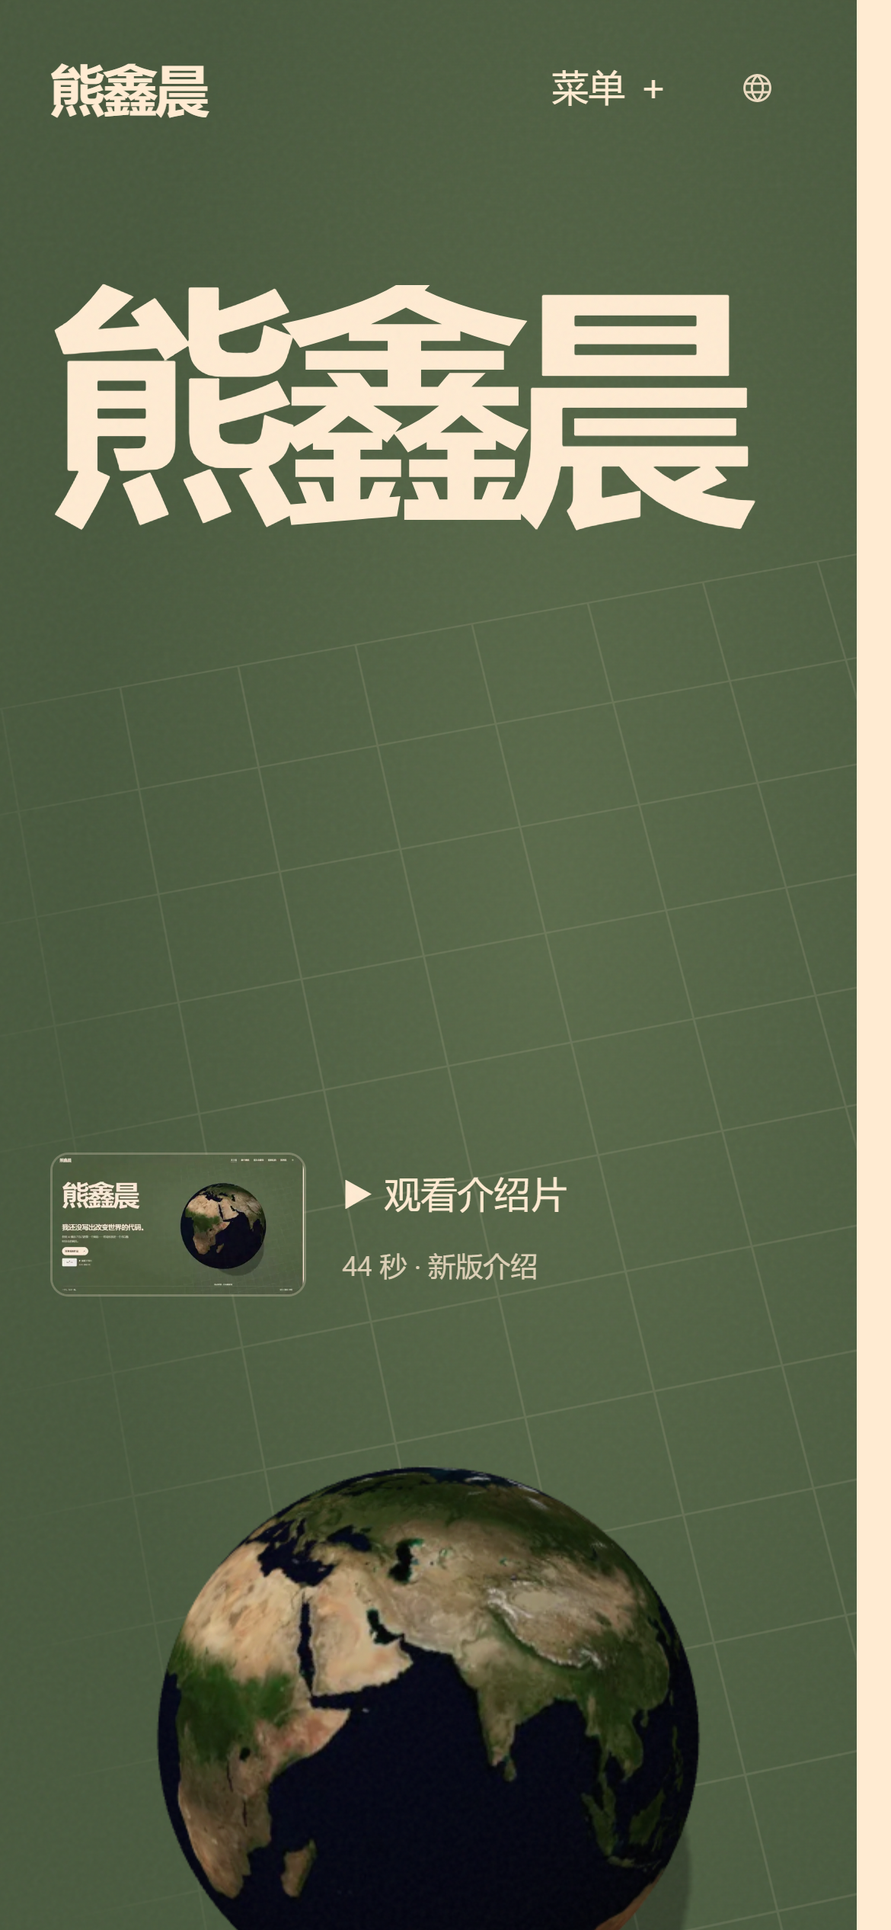
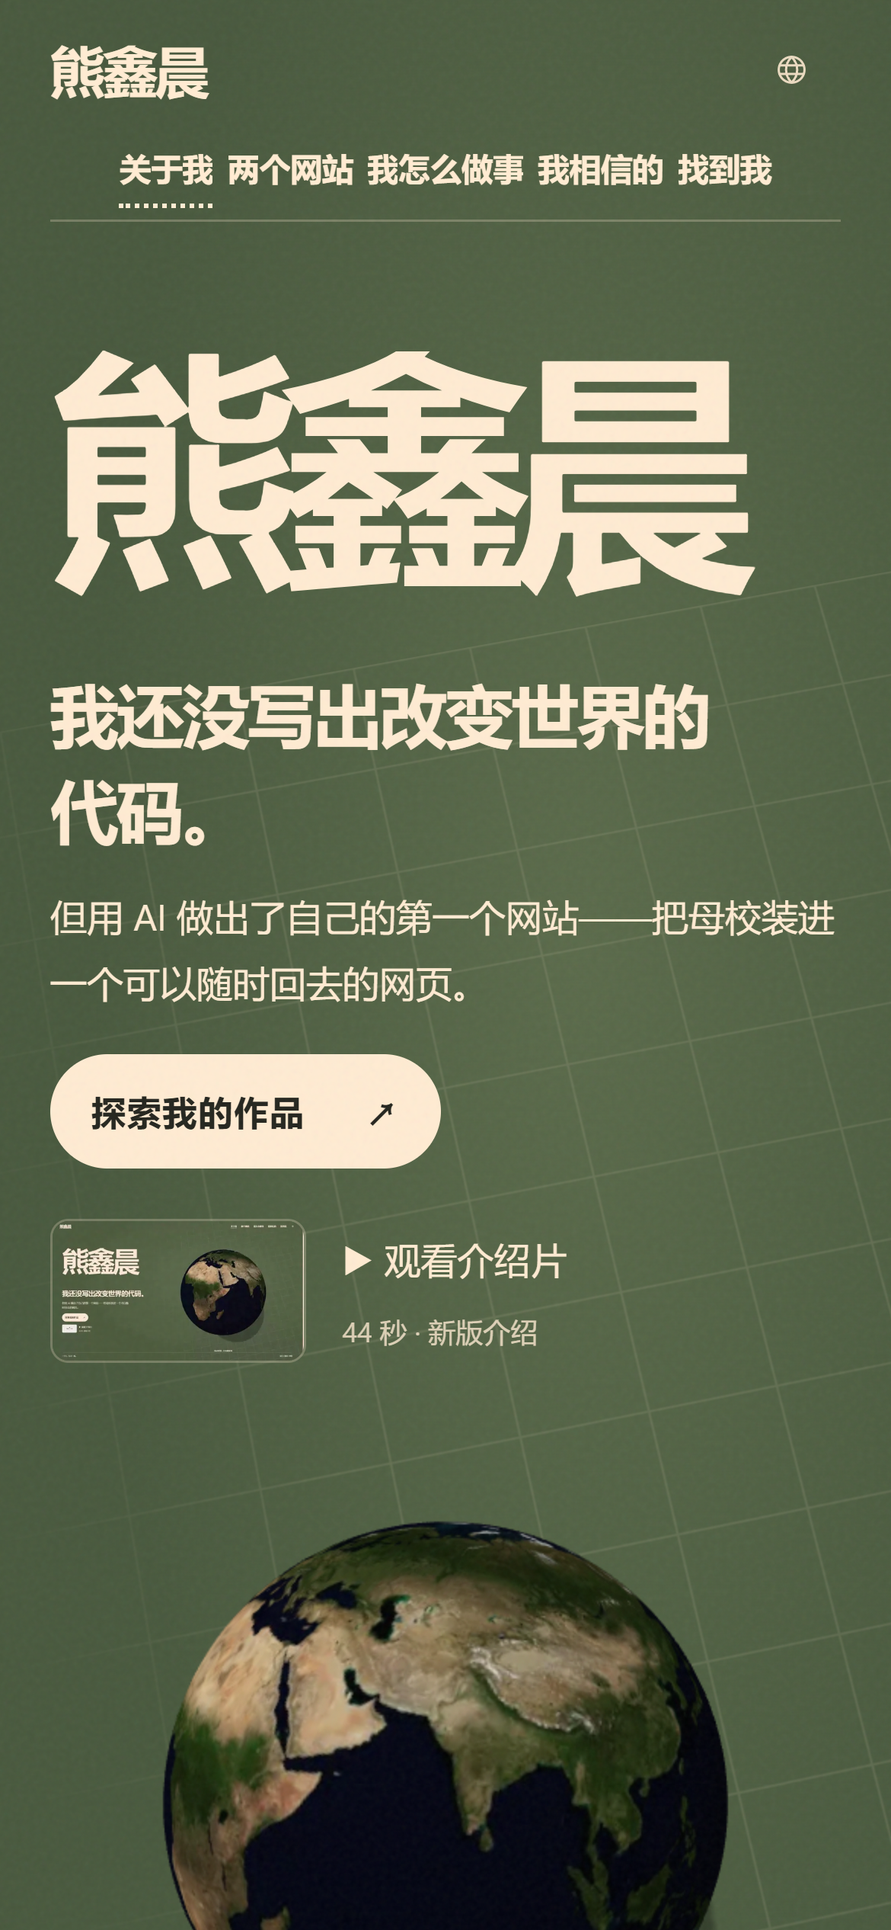
移动端默认展开章节导航并适配换行高度

diff --git a/en/index.html b/en/index.html
@@ -21,10 +21,10 @@
 <meta property="og:locale" content="en_US">
 <meta property="og:locale:alternate" content="zh_CN">
 <meta name="twitter:card" content="summary_large_image">
-<link rel="icon" href="../assets/images/favicon.ico?v=167fca" type="image/x-icon">
-<link rel="icon" href="../assets/images/favicon-32.png?v=167fca" type="image/png" sizes="32x32">
-<link rel="apple-touch-icon" href="../assets/images/apple-touch-icon.png?v=167fca">
-<link rel="stylesheet" href="../assets/css/style.css?v=167fca">
+<link rel="icon" href="../assets/images/favicon.ico?v=bf924a" type="image/x-icon">
+<link rel="icon" href="../assets/images/favicon-32.png?v=bf924a" type="image/png" sizes="32x32">
+<link rel="apple-touch-icon" href="../assets/images/apple-touch-icon.png?v=bf924a">
+<link rel="stylesheet" href="../assets/css/style.css?v=bf924a">
 <noscript>
 <style>
 /* Without JavaScript: show everything the scripts would reveal, and lay the two
@@ -100,14 +100,14 @@
   <section class="hero" id="top">
 <div class="hero-stage">
 <h1>Xiong Xinchen</h1>
-    <div class="hero-visual"><div class="orbit-fallback" aria-hidden="true"><img src="../assets/images/orbit-poster.webp?v=167fca" width="800" height="800" alt="" fetchpriority="high" decoding="async"></div>
+    <div class="hero-visual"><div class="orbit-fallback" aria-hidden="true"><img src="../assets/images/orbit-poster.webp?v=bf924a" width="800" height="800" alt="" fetchpriority="high" decoding="async"></div>
     <canvas id="field" aria-hidden="true"></canvas></div>
 
 
     <div class="hero-copy"><p class="motto">I haven't written code that changed the world yet.</p>
     <p class="hero-sub">But with AI I made my first website — it puts my old school into a page you can go back to at any time.</p>
     <a class="hero-cta" data-magnetic href="#works">Explore my work <span aria-hidden="true">↗</span></a>
-    <a class="film-entry" href="../assets/video/intro-promo.mp4?v=167fca"><img src="../assets/video/poster.webp?v=167fca" width="480" height="270" alt="" decoding="async"><span>▶ Watch the film<small>44 sec · New edition</small></span></a></div>
+    <a class="film-entry" href="../assets/video/intro-promo.mp4?v=bf924a"><img src="../assets/video/poster.webp?v=bf924a" width="480" height="270" alt="" decoding="async"><span>▶ Watch the film<small>44 sec · New edition</small></span></a></div>
 <div class="hero-caption"><span>One person. With AI.</span><span>Design / Build / Explore</span></div>
 
 <a class="scroll-next" href="#about">Scroll to explore <span aria-hidden="true">↓</span></a>
@@ -117,7 +117,7 @@
 
   <!-- ============ I · ABOUT ============ -->
   <section id="about">
-    <div class="avatar"><img src="../assets/images/avatar.jpg?v=167fca" alt="The owner’s chosen avatar: two lines of white Chinese text reading 「你能始终站在人民这边，你就是他最坚定的战士」 over the Russian «Служи народу», on a dark crimson field, with a black silhouetted figure in a cap at the bottom" width="300" height="300"></div>
+    <div class="avatar"><img src="../assets/images/avatar.jpg?v=bf924a" alt="The owner’s chosen avatar: two lines of white Chinese text reading 「你能始终站在人民这边，你就是他最坚定的战士」 over the Russian «Служи народу», on a dark crimson field, with a black silhouetted figure in a cap at the bottom" width="300" height="300"></div>
     <div class="sec-head reveal"><span class="sec-index">I · ABOUT</span><h2>About</h2></div>
     <hr class="sec-rule reveal">
     <p class="reveal">My name is Xiong Xinchen. The site you are reading is the introduction page I made for myself. Two other things of mine are live: a private memorial page for my school, and GEOHOT.</p>
@@ -147,7 +147,7 @@
     <article class="work-card reveal" id="project-memorial">
       <h3>A Memorial by Qingshan Lake · In memory of Nanchang No. 15 Middle School</h3>
       <p class="lede">My old school, made into an address you can visit.</p>
-      <img class="shot" src="../assets/images/shot-nc15.webp?v=167fca" alt="The memorial site’s opening screen: cream paper, the school badge, an EST. 1958 eyebrow line, and the serif headline 「青山湖畔，红砖楼与香樟记得。」" width="1200" height="750" loading="lazy">
+      <img class="shot" src="../assets/images/shot-nc15.webp?v=bf924a" alt="The memorial site’s opening screen: cream paper, the school badge, an EST. 1958 eyebrow line, and the serif headline 「青山湖畔，红砖楼与香樟记得。」" width="1200" height="750" loading="lazy">
       <ul class="facts" role="list">
         <li>Pure HTML / CSS / vanilla JS. Structure, style and behaviour are kept apart, and there is no build step.</li>
         <li>25 campus photographs, all taken by me, and a tour through time at 8 camera positions.</li>
@@ -160,7 +160,7 @@
     <article class="work-card reveal" id="project-geohot">
       <h3>GEOHOT · Geography hot spots</h3>
       <p class="lede">Scheduled every morning at 8; when a day has nothing worth writing, it stays blank instead of padding out.</p>
-      <img class="shot" src="../assets/images/shot-geohot.webp?v=167fca" alt="GEOHOT’s front page: a list of scored geography items and the daily digest" width="1000" height="626" loading="lazy">
+      <img class="shot" src="../assets/images/shot-geohot.webp?v=bf924a" alt="GEOHOT’s front page: a list of scored geography items and the daily digest" width="1000" height="626" loading="lazy">
       <ul class="facts" role="list">
         <li>Built on the open-source framework AIHOT. The whole geography layer lives in one directory, <code>industry/</code>.</li>
         <li>Sources are collected, pre-filtered, then scored twice on their own; spatial salience is the ranking criterion, while the admission threshold is set per source tier.</li>
@@ -249,8 +249,8 @@
   <div class="film-bar"><strong id="film-title">Personal site film · Earlier version</strong><button type="button" class="film-close" autofocus>Close</button></div>
   <video controls playsinline preload="none" width="1920" height="1080" aria-label="Personal site film, in Chinese"></video>
   <p class="film-note">The current site, with Chinese on-screen text.</p>
-  <a href="../assets/video/intro-promo.mp4?v=167fca" download>Download film</a>
+  <a href="../assets/video/intro-promo.mp4?v=bf924a" download>Download film</a>
 </dialog>
-<script type="module" src="../assets/js/main.js?v=167fca"></script>
+<script type="module" src="../assets/js/main.js?v=bf924a"></script>
 </body>
 </html>

diff --git a/index.html b/index.html
@@ -21,10 +21,10 @@
 <meta property="og:locale" content="zh_CN">
 <meta property="og:locale:alternate" content="en_US">
 <meta name="twitter:card" content="summary_large_image">
-<link rel="icon" href="./assets/images/favicon.ico?v=167fca" type="image/x-icon">
-<link rel="icon" href="./assets/images/favicon-32.png?v=167fca" type="image/png" sizes="32x32">
-<link rel="apple-touch-icon" href="./assets/images/apple-touch-icon.png?v=167fca">
-<link rel="stylesheet" href="./assets/css/style.css?v=167fca">
+<link rel="icon" href="./assets/images/favicon.ico?v=bf924a" type="image/x-icon">
+<link rel="icon" href="./assets/images/favicon-32.png?v=bf924a" type="image/png" sizes="32x32">
+<link rel="apple-touch-icon" href="./assets/images/apple-touch-icon.png?v=bf924a">
+<link rel="stylesheet" href="./assets/css/style.css?v=bf924a">
 <noscript>
 <style>
 /* 关掉脚本时：脚本本来要揭示的内容全部直接显示，两个语言链接摊平仍可点击。
@@ -99,14 +99,14 @@
   <section class="hero" id="top">
 <div class="hero-stage">
 <h1>熊鑫晨</h1>
-    <div class="hero-visual"><div class="orbit-fallback" aria-hidden="true"><img src="./assets/images/orbit-poster.webp?v=167fca" width="800" height="800" alt="" fetchpriority="high" decoding="async"></div>
+    <div class="hero-visual"><div class="orbit-fallback" aria-hidden="true"><img src="./assets/images/orbit-poster.webp?v=bf924a" width="800" height="800" alt="" fetchpriority="high" decoding="async"></div>
     <canvas id="field" aria-hidden="true"></canvas></div>
 
 
     <div class="hero-copy"><p class="motto">我还没写出改变世界的代码。</p>
     <p class="hero-sub">但用 AI 做出了自己的第一个网站——把母校装进一个可以随时回去的网页。</p>
     <a class="hero-cta" data-magnetic href="#works">探索我的作品 <span aria-hidden="true">↗</span></a>
-    <a class="film-entry" href="./assets/video/intro-promo.mp4?v=167fca"><img src="./assets/video/poster.webp?v=167fca" width="480" height="270" alt="" decoding="async"><span>▶ 观看介绍片<small>44 秒 · 新版介绍</small></span></a></div>
+    <a class="film-entry" href="./assets/video/intro-promo.mp4?v=bf924a"><img src="./assets/video/poster.webp?v=bf924a" width="480" height="270" alt="" decoding="async"><span>▶ 观看介绍片<small>44 秒 · 新版介绍</small></span></a></div>
 <div class="hero-caption"><span>一个人，与 AI 一起。</span><span>设计 / 建造 / 探索</span></div>
 
 <a class="scroll-next" href="#about">向下，认识我 <span aria-hidden="true">↓</span></a>
@@ -116,7 +116,7 @@
 
   <!-- ============ 壹 · ABOUT ============ -->
   <section id="about">
-    <div class="avatar"><img src="./assets/images/avatar.jpg?v=167fca" alt="站长选定的头像图：深红底上两行白字「你能始终站在人民这边，你就是他最坚定的战士」，其下一行俄文「Служи народу」，底部是一个戴帽人物的黑色剪影" width="300" height="300"></div>
+    <div class="avatar"><img src="./assets/images/avatar.jpg?v=bf924a" alt="站长选定的头像图：深红底上两行白字「你能始终站在人民这边，你就是他最坚定的战士」，其下一行俄文「Служи народу」，底部是一个戴帽人物的黑色剪影" width="300" height="300"></div>
     <div class="sec-head reveal"><span class="sec-index">壹 · ABOUT</span><h2>关于我</h2></div>
     <hr class="sec-rule reveal">
     <p class="reveal">我叫熊鑫晨。你现在看到的这个页面，是我为自己做的介绍页。我放上线的还有两个站点——纪念母校的那本私人纪念册，和地理热点 GEOHOT。</p>
@@ -146,7 +146,7 @@
     <article class="work-card reveal" id="project-memorial">
       <h3>青山湖畔的纪念册 · 纪念南昌市第十五中学</h3>
       <p class="lede">把母校做成一个可以随时访问的地址。</p>
-      <img class="shot" src="./assets/images/shot-nc15.webp?v=167fca" alt="纪念册网站的首屏：米白纸面、校徽、眉标 NANCHANG NO. 15 MIDDLE SCHOOL · EST. 1958，以及衬线大标题「青山湖畔，红砖楼与香樟记得。」" width="1200" height="750" loading="lazy">
+      <img class="shot" src="./assets/images/shot-nc15.webp?v=bf924a" alt="纪念册网站的首屏：米白纸面、校徽、眉标 NANCHANG NO. 15 MIDDLE SCHOOL · EST. 1958，以及衬线大标题「青山湖畔，红砖楼与香樟记得。」" width="1200" height="750" loading="lazy">
       <ul class="facts" role="list">
         <li>纯 HTML / CSS / 原生 JS，结构、样式、行为三分离，没有构建步骤。</li>
         <li>25 张我自己拍的校园实景，八个机位的时光漫游。</li>
@@ -159,7 +159,7 @@
     <article class="work-card reveal" id="project-geohot">
       <h3>GEOHOT · 地理热点</h3>
       <p class="lede">每天上午八点排期出刊；那一天没有值得写的，它就照实空着，不凑数。</p>
-      <img class="shot" src="./assets/images/shot-geohot.webp?v=167fca" alt="GEOHOT 首页：带入选分的地理条目列表与每日日报" width="1000" height="626" loading="lazy">
+      <img class="shot" src="./assets/images/shot-geohot.webp?v=bf924a" alt="GEOHOT 首页：带入选分的地理条目列表与每日日报" width="1000" height="626" loading="lazy">
       <ul class="facts" role="list">
         <li>建在开源框架 AIHOT 之上，地理这一层全部收在 <code>industry/</code> 一个目录里。</li>
         <li>信源先采集、再预筛，然后两次独立打分；入选标准是空间显著性优先，门槛按信源分级。</li>
@@ -248,8 +248,8 @@
   <div class="film-bar"><strong id="film-title">个人站介绍片 · 此前版本</strong><button type="button" class="film-close" autofocus>关闭</button></div>
   <video controls playsinline preload="none" width="1920" height="1080" aria-label="个人站介绍片，中文"></video>
   <p class="film-note">影片展示当前新版网页，含中文画面文字。</p>
-  <a href="./assets/video/intro-promo.mp4?v=167fca" download>下载影片</a>
+  <a href="./assets/video/intro-promo.mp4?v=bf924a" download>下载影片</a>
 </dialog>
-<script type="module" src="./assets/js/main.js?v=167fca"></script>
+<script type="module" src="./assets/js/main.js?v=bf924a"></script>
 </body>
 </html>

diff --git a/assets/css/style.css b/assets/css/style.css
@@ -744,7 +744,6 @@ html[lang=en] .portfolio .hero h1{font-size:clamp(60px,15.2vw,230px);line-height
 .portfolio .progress{visibility:hidden}
 .portfolio .topbar[data-tone=ink]{color:var(--night)}
 .portfolio .topbar:has(#nav.is-open){color:var(--sand);background:var(--forest)}
-@media(min-width:1001px){
  .portfolio .menu-toggle{display:none}
  .portfolio #nav,.portfolio #nav.is-open{display:flex;position:static;inset:auto;flex-direction:row;align-items:center;justify-content:flex-end;order:1;margin-left:auto;padding:0;gap:clamp(22px,1.7vw,44px);background:transparent;overflow:visible}
  .portfolio #nav a{position:relative;color:inherit;border:0;padding:10px 0;font-size:clamp(14px,.82vw,21px);line-height:1.3;font-weight:700;letter-spacing:-.025em;text-transform:uppercase;white-space:nowrap}
@@ -752,7 +751,16 @@ html[lang=en] .portfolio .hero h1{font-size:clamp(60px,15.2vw,230px);line-height
  .portfolio #nav a:hover,.portfolio #nav a[aria-current]{background:transparent;color:inherit}
  .portfolio #nav a:hover::after,.portfolio #nav a[aria-current]::after{transform:scaleX(1)}
  .portfolio .controls{margin-left:8px}
+/* Keep the same visible navigation on phones, arranged below the brand. */
+@media(max-width:1000px){
+ .portfolio .topbar{flex-wrap:wrap;min-height:0;padding-block:8px;column-gap:12px;row-gap:0}
+ .hero-stage{padding-top:calc(var(--bar) + 34px)}
+ .portfolio .brand{min-height:44px;align-items:center}
+ .portfolio .controls{order:2;margin-left:0}
+ .portfolio #nav,.portfolio #nav.is-open{order:3;flex:1 0 100%;flex-wrap:wrap;justify-content:center;column-gap:clamp(5px,1.6vw,12px);row-gap:0;margin:0}
+ .portfolio #nav a{display:flex;align-items:center;justify-content:center;min-height:44px;padding:8px 0;font-size:clamp(13px,3.6vw,16px);line-height:1.3;letter-spacing:-.025em}
 }
+
 @media(scripting:none){.no-js .portfolio #nav{display:flex;position:static;flex-wrap:wrap;padding:10px 0;background:none}}
 @media(scripting:none){.no-js .portfolio #nav a{font-size:14px;padding:10px}}
 @media(scripting:none){.no-js .portfolio .topbar{position:relative;flex-wrap:wrap}}

diff --git a/assets/video/index.html b/assets/video/index.html
@@ -15,8 +15,8 @@
   <header><a href="/">熊鑫晨 · 个人介绍</a><span>44 秒 · 1920 × 1080</span></header>
   <h1>一个人，与 AI 一起。</h1>
   <p>当前新版个人站的真实画面，配以轻柔音乐与自然运镜。<br><small>The current website, with Chinese on-screen text and a soft original score.</small></p>
-  <video controls playsinline preload="metadata" poster="./poster-hd.jpg?v=167fca" width="1920" height="1080" aria-label="熊鑫晨新版个人站宣传片"><source src="./intro-promo.mp4?v=167fca" type="video/mp4">你的浏览器无法播放此视频，请使用下方下载链接。</video>
-  <div class="links"><a href="./intro-promo.mp4?v=167fca" download>下载高清影片 / Download MP4</a><a href="./intro-promo-nobgm.mp4?v=167fca" download>无配乐版 / No music</a><a href="/">返回网站 / Back to site ↗</a></div>
+  <video controls playsinline preload="metadata" poster="./poster-hd.jpg?v=bf924a" width="1920" height="1080" aria-label="熊鑫晨新版个人站宣传片"><source src="./intro-promo.mp4?v=bf924a" type="video/mp4">你的浏览器无法播放此视频，请使用下方下载链接。</video>
+  <div class="links"><a href="./intro-promo.mp4?v=bf924a" download>下载高清影片 / Download MP4</a><a href="./intro-promo-nobgm.mp4?v=bf924a" download>无配乐版 / No music</a><a href="/">返回网站 / Back to site ↗</a></div>
   <footer><small>画面：当前个人站与公开作品素材 · 制作：Video Shotcraft · 原创轻柔配乐<br>地球影像：NASA Earth Observatory / Blue Marble Next Generation</small></footer>
 </main>
 </body>

diff --git a/assets/js/main.js b/assets/js/main.js
@@ -494,6 +494,17 @@ document.addEventListener('click', (ev) => {
 schedule();
 
 
+/* Match anchor offsets and sticky scenes to the naturally wrapped header. */
+(function navigationHeight(){
+  const bar=$('.topbar');if(!bar)return;
+  const observer=new ResizeObserver(()=>{
+    const height=Math.ceil(bar.getBoundingClientRect().height);
+    if(height&&innerWidth<=1000){root.style.setProperty('--bar',`${height}px`);document.body.style.setProperty('--bar',`${height}px`);}
+    else{root.style.removeProperty('--bar');document.body.style.removeProperty('--bar');}
+  });
+  observer.observe(bar);
+})();
+
 /* Mobile navigation uses real buttons and restores focus when dismissed. */
 (function navigationDrawer() {
   const toggle = $('.menu-toggle'), nav = $('#nav');

diff --git a/404.html b/404.html
@@ -37,8 +37,8 @@
 <!-- 这一页是全仓唯一**不许用相对路径**的文件：nginx 用 error_page 把它内部重写到任意不存在的地址上，
      访客真正请求的是 /foo/bar 这种带目录的 URL，相对 ./assets/... 会被解析成 /foo/assets/... 而 404——
      于是错误页丢掉样式、四个出口里两个点不动。所以这里一律写根绝对路径。 -->
-<link rel="stylesheet" href="/assets/fonts/noto-serif-sc/wght.css?v=167fca">
-<link rel="stylesheet" href="/assets/css/style.css?v=167fca">
+<link rel="stylesheet" href="/assets/fonts/noto-serif-sc/wght.css?v=bf924a">
+<link rel="stylesheet" href="/assets/css/style.css?v=bf924a">
 </head>
 <body>
 

diff --git a/README.en.md b/README.en.md
@@ -32,14 +32,14 @@ The film uses Chinese on-screen text. The English website remains fully translat
 
 ![Two live projects, shown using the current project selector](assets/images/readme-works-desktop.png?v=ddaf350d481d)
 
-<p align="center"><img src="assets/images/readme-hero-mobile.png?v=a80248cfcbe2" width="390" alt="Current mobile hero and navigation"></p>
+<p align="center"><img src="assets/images/readme-hero-mobile.png?v=9c30c784e83b" width="390" alt="Current mobile hero and navigation"></p>
 
 These are captures of the current local release candidate, refreshed on 16 October 2026. All three captures come directly from Chrome, with project thumbnails refreshed from the live sites on the same day. No UI has been redrawn. The film preserves its production-time snapshot and does not track live news updates.
 
 ## What is here
 
 - **Earth hero:** locally hosted NASA Blue Marble imagery on a Three.js sphere. Unrestricted 360° rotation and tumbling in any direction, four-arrow-key control, reset and reduced-motion support. The main globe belongs to the hero; no orbit rings or movement into the About section.
-- **Navigation:** desktop chapter links, current-section indicator, responsive menu and Chinese/English switch.
+- **Navigation:** desktop chapter links, always-visible mobile navigation, current-section indicator and Chinese/English switch.
 - **Two projects:** the Nanchang No. 15 memorial and GEOHOT, with project selection and a comparison of their purpose, content and implementation.
 - **Working process:** four original steps, paired with an interactive visual sequence.
 - **Beliefs and contact:** three original statements, email, social links and site sharing.
@@ -70,8 +70,8 @@ The values below are checked against the files by the quality suite. JS totals i
 |---|---|---|
 | Repository files | **190** | `git ls-files \| wc -l` = 190 |
 | HTML size | `24,111` / `24,542` B | index.html / en/index.html |
-| Site CSS | **50.7 KB** (`51,961` B), gzip **11.5 KB** | assets/css/style.css |
-| Hero JS | gzip **195.0 KB** | scripts/check-bytes.mjs |
+| Site CSS | **51.4 KB** (`52,612` B), gzip **11.7 KB** | assets/css/style.css |
+| Hero JS | gzip **195.1 KB** | scripts/check-bytes.mjs |
 | Images (avatar + two project shots) | **85.3 KB** (`87,382` B) | scripts/check-bytes.mjs |
 | Social/share assets | **77.8 KB** (`79,646` B) | scripts/check-bytes.mjs |
 

diff --git a/README.md b/README.md
@@ -30,14 +30,14 @@ https://github.com/user-attachments/assets/674f7e9e-a87c-4235-b784-5ac5c5f1c822
 
 ![新版作品区：两个已上线网站与作品选择器](assets/images/readme-works-desktop.png?v=ddaf350d481d)
 
-<p align="center"><img src="assets/images/readme-hero-mobile.png?v=a80248cfcbe2" width="390" alt="新版移动端首屏和导航"></p>
+<p align="center"><img src="assets/images/readme-hero-mobile.png?v=9c30c784e83b" width="390" alt="新版移动端首屏和导航"></p>
 
 截图于 2026 年 10 月 16 日从本地待发布版本更新。三张均由 Chrome 直接采集；两张作品缩略图已按同日线上页面刷新，没有重新绘制界面。介绍片保留制作时的画面快照，不随资讯实时更新。
 
 ## 网页里有什么
 
 - **真实地球首屏**：使用本地 NASA Blue Marble 地球影像，支持任意方向 360° 自由拖动与翻转、上下左右方向键旋转、重置与减少动态效果。主地球仅属于首屏，不带外围轨道，也不进入“关于我”。
-- **章节导航**：桌面横向导航、当前章节指示、移动菜单与中英文切换。
+- **章节导航**：桌面横向导航、移动端默认展开的文字导航、当前章节指示与中英文切换。
 - **两个作品**：纪念南昌市第十五中学的网站与 GEOHOT 地理热点，支持切换查看，并对照两者的用途、内容和实现。
 - **做事方法**：保留原有四个步骤，配合可操作的视觉分镜。
 - **信念与联系**：原有三条信念、公开邮箱、社交入口与网址分享。
@@ -68,8 +68,8 @@ node --test "tests/*.test.mjs"
 |---|---|---|
 | 仓库文件 | **190** | `git ls-files \| wc -l` = 190 |
 | 中英两页字节 | `24,111` / `24,542` B | index.html / en/index.html |
-| 全站 CSS | **50.7 KB** (`51,961` B), gzip **11.5 KB** | assets/css/style.css |
-| 首屏 JS（含 Three.js） | gzip **195.0 KB** | scripts/check-bytes.mjs |
+| 全站 CSS | **51.4 KB** (`52,612` B), gzip **11.7 KB** | assets/css/style.css |
+| 首屏 JS（含 Three.js） | gzip **195.1 KB** | scripts/check-bytes.mjs |
 | 图片（头像 + 两张作品截图） | **85.3 KB** (`87,382` B) | scripts/check-bytes.mjs |
 | 不进首屏的分享素材 | **77.8 KB** (`79,646` B) | scripts/check-bytes.mjs |
 
